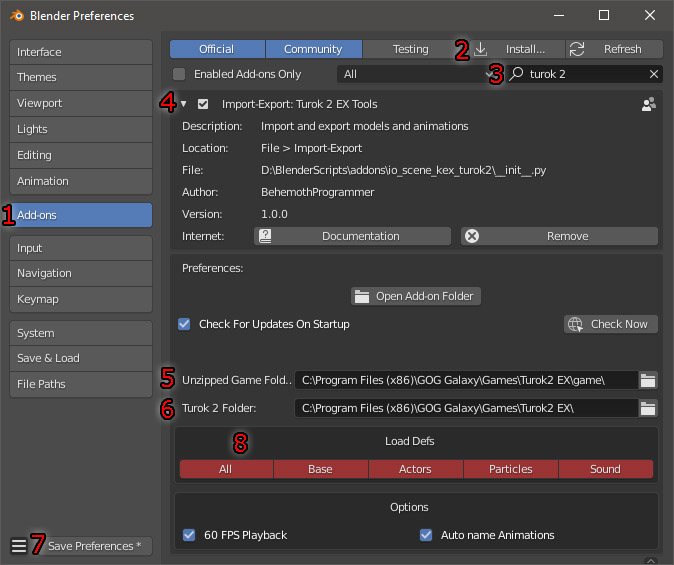
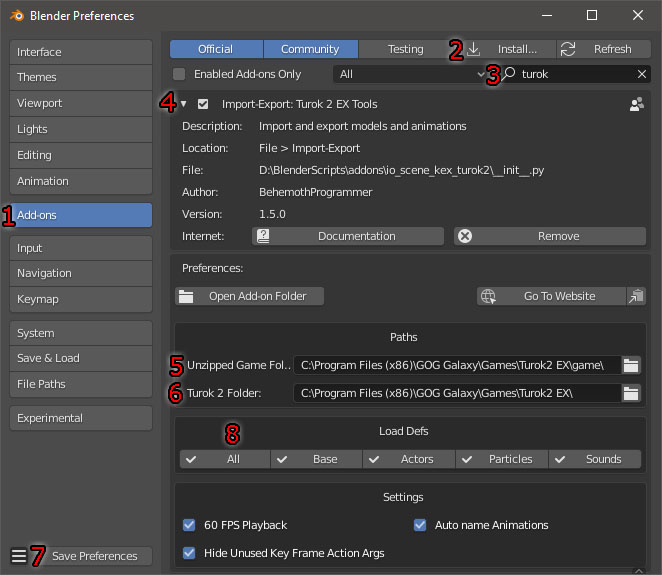
updated Turok 2 doc page for 1.5.0 ui changes

diff --git a/Turok2Blender/doc.html b/Turok2Blender/doc.html
@@ -201,7 +201,7 @@
 			<li>Maximum number of Vertices a Skinnedmesh can have is 65535</li>
 			<li>Vertices can only be in 1 Bone Vertex Group and must have a weight of 1.0</li>
 			<li>Turok 2 does not support scaling for anything. Bones, Armature, the Mesh, and Animation Key Frames.</li>
-			<li>Note: In game, actors are usually scaled by 1.427501 (0.5 in game scale) and 2.855002 (1.0 in game scale).</li>
+			<li>Note: In game, actors are scaled by 2.855002 and then their actor scale is applied.</li>
 		</ul>
 	</div>
 	<br>
@@ -217,35 +217,32 @@
 		<table>
 			<tr>
 				<td class="content">
-					<img src="images/blender_object_panel.jpg">
+					<img src="images/blender_obj_anim_data.jpg">
 				</td>
 				<td class="content">
 					<p><b>Type</b>: The Type of Turok Object this Blender Object is: None, Staticmesh, Skinnedmesh, Bounding Box, Hot Point.</p>
-					<p><b>Preview TextureSet</b>: Preview how the Skinnedmesh will look with a texture set variant.</p>
-					<b>Yaw Offset</b>: Add Yaw Offset key frames to your animation to rotate the root bone in game. Yaw Offset key frames are used in AI Turn Animations. So this way the models root bone can rotate differently from the actual way the AI is turning towards in game.
-					<br>
-					<img src="images/blender_yawoffset_keyframes.jpg" style="max-width:100%;">
-					<br>
-					<p><b>Validate Skinnedmesh</b>: Press this button to make sure everything is setup correctly and ready to be exported to Turok 2. Info/Warnings/Errors will be displayed in the System Console.</p>
-					<p><b>FPS</b>: The Frames Per Second the animation will play at.</p>
-					<p><b>Frame Scale</b>: This value is unused and serves no purpose.</p>
+					<p><b>AnimID</b>: The Animations ID</p>
+					<p><b>FPS</b>: The Frames Per Second the animation will play at</p>
+					<p><b>Frame Scale</b>: This value is unused and serves no purpose</p>
 					<p><b>Blend Length</b>: The length of frames to blend into this animation (default 5)</p>
 					<p><b>Blend Start</b>: The frame to start blending</p>
 					<p><b>Blend End</b>: The frame to end blending</p>
 					<p><b>Loop Frame</b>: The Frame to go after the animation has finished playing. Setting this to the last frame of the animation will make it stop when it finishes playing. So most of the time you want this at either frame 0 or the last frame.</p>
+				</td>
+			</tr>
+			<tr>
+				<td class="content">
+					<img src="images/blender_obj_anim_kfa.jpg">
+				</td>
+				<td class="content">
 					<p><b>Action Key Frames</b>: Add/Remove/Select Action Key Frames that will trigger in game. With a Action Key Frame selected you can edit it's properties.
 					<ul>
-						<li><b>Event</b> - The type of action that will be triggered. Enter a number or click the menu button on the right to search for one.</li>
 						<li><b>Frame</b> - The frame this action will be triggered on.</li>
 						<li><b>Bone</b> - An unused Bone index. Most of the time is None (65535).</li>
-						<li><b>Offset</b> - The location of this key frame action relative to the Root Bone or Armature. This is not used in event 11 (Fire Weapon Projectile)</li>
-						<li>The next 8 properties depend on the Event you are using. Assign them accordingly.</li>
+						<li><b>Event</b> - The type of action that will be triggered. Enter a number or click the menu button on the right to search for one. The next 8 properties that appear below the event property depend on the Event you are using. Assign them accordingly.</li>
+						<li><b>Point Offset</b> - The location of this key frame action relative to the Root Bone or Armature. Press the Show Point button to see the point on the model. Pin the object view and select the point in the 3D view and move it around then click Set Offset to set the Key Frame Action Offset. (This is not used in event 11 - Fire Weapon Projectile)</li>
 					</ul></p>
-					<p><b>Head Tracking</b>: Assign the Start and End Bones that are the Neck and Head of the model so it will look at it's target. Assign None if you don't want any head tracking.</p>
-					<p><b>Bounding Box</b>: This displays the current min and max values of the bounding box parented to this armatures mesh object. Use the "---Show/Hide Bounding Boxes---" Dropdown menu to quickly show or hide certain bounding boxes.</p>
-					<p><b>Add Hot Point</b>: You can Add a new Hot Point to a Bone in this panel as well. Select a bone from the menu and click Add Hot Point. A new Hot Point Object will be created and added to the Armature.</p>
 					<br>
-					<hr>
 					<button type="button" class="collapsible">+ List of Action Key Frame Events</button>
 					<div class="collapsiblecontent">
 					<table border="1">
@@ -433,6 +430,36 @@
 					</div>
 				</td>
 			</tr>
+			<tr>
+				<td class="content">
+					<img src="images/blender_obj_bb.jpg">
+				</td>
+				<td class="content">
+					<p><b>Bounding Box</b>: This displays the current min and max values of the bounding box parented to this armatures mesh object. Use the "Show/Hide Bounding Boxes" Dropdown menu to quickly show or hide certain bounding boxes.</p>
+				</td>
+			</tr>
+			<tr>
+				<td class="content">
+					<img src="images/blender_obj_headtrack.jpg">
+				</td>
+				<td class="content">
+					<p><b>Head Tracking</b>: Assign the Start and End Bones that are the Neck and Head of the model so it will look at it's target. Assign None if you don't want any head tracking.</p>
+				</td>
+			</tr>
+			<tr>
+				<td class="content">
+					<img src="images/blender_obj_misc.jpg">
+				</td>
+				<td class="content">
+					<p><b>Validate Skinnedmesh</b>: Press this button to make sure everything is setup correctly and ready to be exported to Turok 2. Info/Warnings/Errors will be displayed in the System Console.</p>
+					<p><b>Preview TextureSet</b>: Preview how the Skinnedmesh will look with a texture set variant.</p>
+					<b>Yaw Offset</b>: Add Yaw Offset key frames to your animation to rotate the root bone in game. Yaw Offset key frames are used in AI Turn Animations. So this way the models root bone can rotate differently from the actual way the AI is turning towards in game. (As far as I know this was never used in Turok 2)
+					<br>
+					<img src="images/blender_yawoffset_keyframes.jpg" style="max-width:100%;">
+					<br>
+					<p><b>Add Hot Point</b>: You can Add a new Hot Point to a Bone in this panel as well. Select a bone from the menu and click Add Hot Point. A new Hot Point Object will be created and added to the Armature.</p>
+				</td>
+			</tr>
 		</table>
 		<hr>
 		<br>
@@ -441,10 +468,10 @@
 		<table>
 			<tr>
 				<td class="content">
-					<img src="images/blender_object_bb_panel.jpg">
+					<img src="images/blender_bb.jpg">
 				</td>
 				<td class="content">
-					<p>This displays the min and max values of this Bounding Box. Use the "---Show/Hide Bounding Boxes---" Dropdown menu to quickly show or hide certain bounding boxes.</p>
+					<p>This displays the min and max values of this Bounding Box. Use the "Show/Hide Bounding Boxes" Dropdown menu to quickly show or hide certain bounding boxes.</p>
 					<p>Switch to Edit Mode and modify the mesh to edit the min and max values.</p>
 				</td>
 			</tr>
@@ -456,10 +483,10 @@
 		<table>
 			<tr>
 				<td class="content">
-					<img src="images/blender_object_hp_panel.jpg">
+					<img src="images/blender_hotpoint.jpg">
 				</td>
 				<td class="content">
-					<p>Use the "---Show/Hide Hot Points---" Dropdown menu to quickly show or hide certain Hot Points.</p>
+					<p>Use the "Show/Hide Hot Points" Dropdown menu to quickly show or hide certain Hot Points.</p>
 					<p><b>Bit</b>: The Hot Point bit value to use for this Hot Point. 3 out of the 32 bits are used in game for specific purposes, the other 29 can be used for custom purposes.</p>
 					<ul>
 						<li><b>1</b> - On Fire</li>
@@ -478,7 +505,7 @@
 		<table>
 			<tr>
 				<td class="content">
-					<img src="images/blender_bone_panel.jpg">
+					<img src="images/blender_bone_data.jpg">
 				</td>
 				<td class="content">
 					<p><b>Bone Index</b>: The Bones index value will specify the order the bone is saved. You must give it a unique value starting from 0 to the number of bones in your armature.</p>
@@ -486,8 +513,25 @@
 					<p><b>Damage Scalar</b>: Damage multiplier for hitting this bone.</p>
 					<p><b>Symbols</b>: These describe the location of the bone.</p>
 					<p><b>Collision</b>: Specifies whether or not this bone will have collision depending on attached models, such as don't do collision if head has been blown off, etc. Each number represents the attached model index. If that number is ON then that bone will have collision with that attached model.</p>
-					<p><b>Bounding Box</b>: This displays the current min and max values of the bounding box parented to this bone. Use the "---Show/Hide Bounding Boxes---" Dropdown menu to quickly show or hide certain bounding boxes.</p>
 					<p><b>Add Hot Point</b>: You can Add a new Hot Point to this Bone in this panel as well. Click Add Hot Point to create a new Hot Point that will be parented to this bone.</p>
+				</td>
+			</tr>
+			<tr>
+				<td class="content">
+					<img src="images/blender_bone_bb.jpg">
+				</td>
+				<td class="content">
+					<p><b>Bounding Box</b>: This displays the current min and max values of the bounding box parented to this bone. Use the "Show/Hide Bounding Boxes" Dropdown menu to quickly show or hide certain bounding boxes.</p>
+				</td>
+			</tr>
+			<tr>
+				<td class="content">
+					<img src="images/blender_bone_setup.jpg">
+				</td>
+				<td class="content">
+					<p><b>Setup Bone</b>: Sets the bones head/tail position to be correct.</p>
+					<p><b>Auto Name Bone</b>: Sets the bones name using the Bone Index and Symbols.</p>
+					<p><b>Include Index In Name</b>: If you want to mirror your pose bones as your animating you will need to name your bones without the index. Turn this off and auto name your bones to be easily able to do that.</p>
 				</td>
 			</tr>
 		</table>
@@ -499,18 +543,64 @@
 		<br><br><br>
 		<h3 id="viewPanel">3D Viewport Tool Panel</h3>
 		<img src="images/blurulr6.gif" style="width:250px;height:4px;">
+		<p>In any 3D Viewport window, you can view the Turok 2 Tool panel by pressing N or dragging the right side out.</p>
 		<table>
 			<tr>
 				<td class="content">
-					<img src="images/blender_tool_panel.jpg">
+					<img src="images/blender_tools_misc.jpg">
 				</td>
 				<td class="content">
-					<p>In any 3D Viewport window, you can view the Turok 2 Tool panel by pressing N or dragging the right side out.</p>
+					<p><b>Clear Unused Blender Data</b>: Removes all Blender Data blocks that are unused. Better then Blenders "Purge All" operator.</p>
+					<p><b>Open Add-on folder</b>: Tries to open the folder this add-on is located in with windows explorer.</p>
+					<p><b>Online Documentation</b>: Opens a web page in your browser to the Turok 2 EX Blender Tools website.</p>
 					<p><b>Setup Player Model Scale</b>: Creates a box object that is the same scale as the Player</p>
-					<p><b>Setup Weapon Camera</b>: Setup a Weapon Camera which matches the Turok 2 EX camera so you can easily see what your weapon will look like in game (Activate the camera with the default key “0” on keypad).</p>
-					<p><b>Sound Test</b>: Open a folder that contains .ksnd files to show them in a list. Click on them in the list to play them. You can also select sounds by ID value and play them.</p>
-					<p><b>Staticmeshes</b>: Open a folder that contains .staticmesh files to show them in a list. Click on them in the list to quickly load them. Click the Disconnect Button if you want to keep that mesh in Blender.</p>
-					<p><b>Skinnedmeshes</b>: Open a folder that contains .skinnedmesh files to show them in a list. Click on them in the list to quickly load them.</p>
+				</td>
+			</tr>
+			<tr>
+				<td class="content">
+					<img src="images/blender_tools_defs.jpg">
+				</td>
+				<td class="content">
+					<p><b>All</b>: Loads all the games files. This will take a while since there are so many files and you only need to do this once. Once the files are loaded there will be a checkmark beside each one indicating that they were loaded. If you change any def files you can click these buttons to reload them.</p>
+					<p><b>Base</b>: Loads builtin tools files and the defs and your custom blender folder if you have it in your project</p>
+					<p><b>Actors</b>: Loads all actor defs in defs/actors/</p>
+					<p><b>Particles</b>: Loads all particles in particles/</p>
+					<p><b>Sounds</b>: Loads all sound shaders files in sounds/shaders/</p>
+				</td>
+			</tr>
+			<tr>
+				<td class="content">
+					<img src="images/blender_tools_weaponcam.jpg">
+				</td>
+				<td class="content">
+					<p><b>Camera Offset</b>: The camera offset value as defined in your defs/weaponInfo.txt file.</p>
+					<p><b>Setup Camera</b>: Setup a Weapon Camera which matches the Turok 2 EX camera so you can easily see what your weapon will look like in game (Activate the camera with the default key “0” on keypad).</p>
+				</td>
+			</tr>
+		</table>
+		<table>
+			<tr>
+				<td class="content">
+					<img src="images/blender_tools_sounds.jpg">
+				</td>
+				<td class="content">
+					<p><b>Preview Sounds</b>: Open a folder that contains .ksnd files to show them in a list. Click on them in the list to play them. You can also select sounds by ID value and play them.</p>
+				</td>
+			</tr>
+			<tr>
+				<td class="content">
+					<img src="images/blender_tools_staticmeshes.jpg">
+				</td>
+				<td class="content">
+					<p><b>Preview Staticmeshes</b>: Open a folder that contains .staticmesh files to show them in a list. Click on them in the list to quickly load them. Click the Disconnect Button if you want to keep that mesh in Blender.</p>
+				</td>
+			</tr>
+			<tr>
+				<td class="content">
+					<img src="images/blender_tools_skinnedmeshes.jpg">
+				</td>
+				<td class="content">
+					<p><b>Preview Skinnedmeshes</b>: Open a folder that contains .skinnedmesh files to show them in a list. Click on them in the list to quickly load them.</p>
 				</td>
 			</tr>
 		</table>
@@ -521,27 +611,25 @@
 		<table>
 			<tr>
 				<td class="content">
-					<img src="images/blender_material_panel.jpg">
+					<img src="images/blender_mat_settings.jpg">
 				</td>
 				<td class="content">
-					<p><b>Convenience Functions</b>: To quickly assign a texture to this material – select an image by clicking on the image icon on the left or opening a new texture, and select the type: One Sided, Two Sided, or Water. And if the image that you selected has any alpha in it. Then click Quick Image Setup and the shader node with the selected image will be added to the material and the Turok 2 material properties will be setup automatically.</p>
-					<p><b>Import Material from .kmat</b>: Import a material from an existing .kmat file.</p>
-					<p><b>Use Custom Material Path</b>: If ON will save this material to the specified .kmat file (do not include the extension .kmat in the Material Path). If is OFF will automatically set the material file path to materials/mat_&#60;ExportFileName&#62;</p>
-					<p><b>Environment Color</b>: Generally, the texture color is interpolated to this color by the pixels alpha value. Then that's multiplied by the Diffuse Color.</p>
-					<p><b>Diffuse Color</b>: Generally, multiplies pixel color by this color.</p>
-					<p><b>Sort</b>: The sort type to render this material on.</p>
-					<ul>
-						<li><b>Default</b> - The standard sort type most opaque materials should use.</li>
-						<li><b>Masked</b> - Used for materials with textures that have alpha. The Blend and Alpha Test material property should also be on when using this sort type.</li>
-						<li><b>Translucent</b> - Materials that you can partially see through. Should have the Blend property on when using this sort type.</li>
-						<li><b>Water</b> - For water materials. Should have the Blend property on when using this sort type.</li>
-					</ul>
+					<p><b>Texture</b>: Shows the first texture being used in this material. Here you can quickly change all the texture properties you need to. This is similar to the shader node panel so see that for the same details.</p>
+					<p><b>Environment Color</b>: Saturates texture by the this color. (Default: Black)</p>
+					<p><b>Diffuse Color</b>: Multiplies pixel color by this color. (Default: White)</p>
 					<p><b>Cull</b>: Which side to render Tris.</p>
 					<ul>
 						<li><b>Use Settings</b> - Uses whatever Blenders material setting "Backface Culling" is set to.</li>
 						<li><b>Back</b> - Renders only the back side (mostly used)</li>
 						<li><b>Front</b> - Renders only the front side. (Should never use this)</li>
 						<li><b>None</b> - Draws both sides</li>
+					</ul>
+					<p><b>Sort</b>: The sort type to render this material on.</p>
+					<ul>
+						<li><b>Default</b> - The standard sort type most opaque materials should use.</li>
+						<li><b>Masked</b> - Used for materials with textures that have alpha. The Blend and Alpha Test material property should also be on when using this sort type.</li>
+						<li><b>Translucent</b> - Materials that you can partially see through. Should have the Blend property on when using this sort type.</li>
+						<li><b>Water</b> - For water materials. Should have the Blend property on when using this sort type.</li>
 					</ul>
 					<p><b>Surface</b>: Surface type of this material</p>
 					<p><b>Reflective Power</b>: Screen Space reflection power</p>
@@ -659,6 +747,16 @@
 					<p>* world_skinnedColor.shader doesn't appear to be used anywhere.</p>
 				</td>
 			</tr>
+			<tr>
+				<td class="content">
+					<img src="images/blender_mat_misc.jpg">
+				</td>
+				<td class="content">
+					<p><b>Setup Image Quickly</b>: To quickly assign a texture to this material – select an image by clicking on the image icon or opening a new texture, and select the type: One Sided, Two Sided, or Water. And if the image that you selected has any alpha in it. Then click Quick Image Setup and the shader node with the selected image will be added to the material and the Turok 2 material properties will be setup automatically.</p>
+					<p><b>Import Material from .kmat</b>: Import a material from an existing .kmat file.</p>
+					<p><b>Use Custom Material Path</b>: If ON will save this material to the specified .kmat file (do not include the extension .kmat in the Material Path). If is OFF will automatically set the material file path to materials/mat_&#60;ExportFileName&#62;</p>
+				</td>
+			</tr>
 		</table>
 		<br><br>
 		<h3 id="shaderPanel">Shader Panel</h3>
@@ -673,8 +771,8 @@
 					<p><b>[Node]File Path</b>: Only the filename will be used and not the full path. If the filename is any of the following: _default, _black, _white, _simpleShadow, _wireframeMesh, _wireframeMeshSelected the games builtin texture will be used for it instead.</p>
 					<p><b>[Node]Texture Interpolation</b>: Linear, Cubic, and Smart will all use “linear” except if Anisotropic Filter is on then it will use “linear_anisotropic” filtering for the Turok 2 texture. Closest will always use “nearest”.</p>
 					<p><b>[Node]Texture Extension</b>: Extend and Clip will use the Turok “clamp” wrapping. Repeat will use Turoks “repeat” wrapping.</p>
-					<p><b>Texture Sampler Index</b>: If you only have 1 texture node then keep this at 0.</p>
-					<p><b>Mirrored</b>: Overrides texture wrapping to "mirrored" which flips the texture on the x and y when it repeats.</p>
+					<p><b>Sampler Index</b>: If you only have 1 texture node then keep this at 0.</p>
+					<p><b>Mirror Wrap</b>: Overrides texture wrapping to "mirrored" which flips the texture on the x and y when it repeats.</p>
 					<p><b>Anisotropic Filter</b>: Overrides texture filtering to "linear_anisotropic" when Linear, Cubic, or Smart is selected.</p>
 				</td>
 			</tr>
